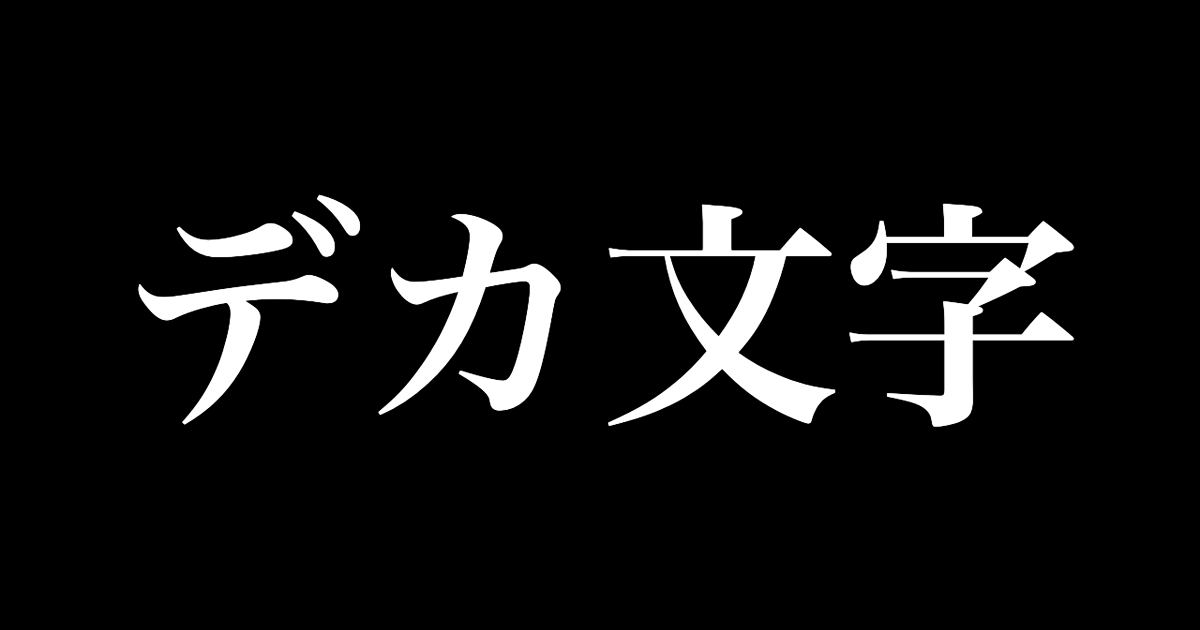
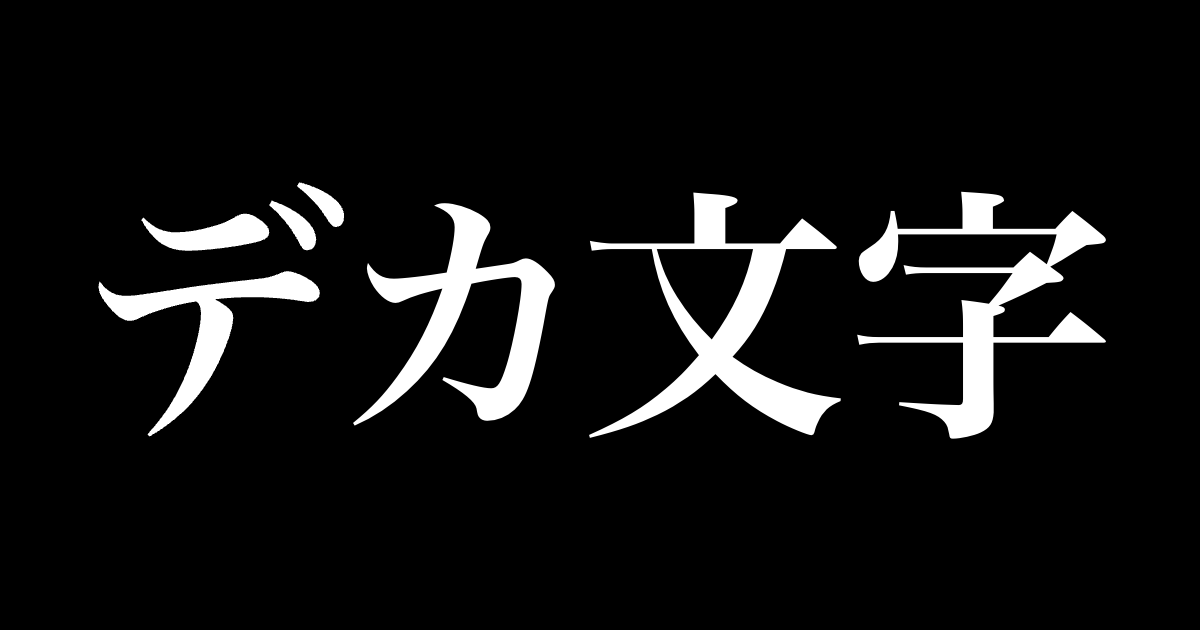
update

diff --git a/index.html b/index.html
@@ -1,30 +1,41 @@
 <!doctype html>
-<html lang="ja">
+<html>
   <head prefix="og: http://ogp.me/ns# fb: http://ogp.me/ns/fb# article: http://ogp.me/ns/article#">
     <meta charset="utf-8">
     <meta name="viewport" content="width=device-width, initial-scale=1">
     <meta name="creator" content="mimonelu">
     <meta name="publisher" content="mimonelu">
-    <meta name="description" content="デカ文字">
+    <meta name="description" content="Render a big characters." data-i18n="content:description">
     <meta name="robots" content="all">
-    <meta property="og:title" content="デカ文字">
-    <meta property="og:type" content="デカ文字">
+    <meta property="og:title" content="Dekamoji" data-i18n="content:title">
+    <meta property="og:type" content="Dekamoji" data-i18n="content:title">
     <meta property="og:url" content="https://mimonelu.github.io/dekamoji/?t=デカ文字&b=black&f=white&w=1200&h=630&ff=serif">
     <meta property="og:image" content="https://mimonelu.github.io/dekamoji/ogp.png">
-    <meta property="og:site_name" content="デカ文字">
-    <meta property="og:description" content="デカ文字">
-    <title>デカ文字</title>
+    <meta property="og:site_name" content="Dekamoji" data-i18n="content:title">
+    <meta property="og:description" content="Render a big characters." data-i18n="content:description">
+    <title data-i18n=":title">Dekamoji</title>
     <style>
 *, * > * {
+  box-sizing: border-box;
   margin: 0;
   padding: 0;
+}
+:root {
+  font-size: calc(16px + 1vmin);
 }
 body {
   background-color: #000000;
   color: #ffffff;
+  font-family: "Helvetica Neue", Arial, "Hiragino Kaku Gothic ProN", "Hiragino Sans", Meiryo, sans-serif;
+  font-feature-settings: "palt";
+  -moz-osx-font-smoothing: grayscale;
+  -webkit-font-smoothing: antialiased;
   object-fit: cover;
   overflow: hidden;
   height: 100vh;
+  -ms-text-size-adjust: 100%;
+  -webkit-text-size-adjust: 100%;
+  user-select: none;
 }
 #canvas {
   margin: auto;
@@ -37,36 +48,205 @@ body {
   width: 100vw;
   height: 100vh;
 }
+#menu-opener {
+  background-image: url("./menu.png");
+  background-color: rgba(0, 0, 0, 0.5);
+  background-position: center;
+  background-repeat: no-repeat;
+  background-size: 32px;
+  border-radius: 50%;
+  position: fixed;
+  top: 1rem;
+  right: 1rem;
+  z-index: 2;
+  width: 64px;
+  height: 64px;
+}
+#menu-opener:focus,
+#menu-opener:hover {
+  background-color: rgba(255, 0, 255, 0.5);
+  cursor: pointer;
+}
+#menu-checkbox {
+  display: none;
+}
+#menu-checkbox:checked ~ #menu-overlay {
+  display: flex;
+}
+#menu-overlay {
+  background-color: rgba(0, 0, 0, 0.75);
+  display: none;
+  align-items: center;
+  justify-content: center;
+  position: fixed;
+  top: 0;
+  left: 0;
+  z-index: 1;
+  width: 100vw;
+  height: 100vh;
+}
+#menu-content {
+  display: flex;
+  flex-direction: column;
+  grid-gap: 1rem;
+  padding: 1rem;
+  width: 100%;
+  max-width: 640px;
+}
+#menu-content form {
+  display: grid;
+  grid-gap: 1rem;
+  grid-template-columns: auto 1fr;
+}
+#menu-content label {
+  display: contents;
+}
+#menu-content label > div {
+  padding: 0.25rem 0;
+  text-align: right;
+  white-space: nowrap;
+}
+#menu-content input,
+#menu-content textarea {
+  background-color: rgba(0, 0, 0, 0.5);
+  border: 2px solid #ffffff;
+  border-radius: 2px;
+  color: #ffffff;
+  font-size: 1rem;
+  padding: 0.25rem 0.5rem;
+  width: 100%;
+}
+#menu-content textarea {
+  resize: none;
+}
+#menu-content input:focus,
+#menu-content input:hover,
+#menu-content textarea:focus,
+#menu-content textarea:hover {
+  background-color: rgba(255, 0, 255, 0.5);
+}
+#menu-content button {
+  background-color: rgba(0, 0, 0, 0.5);
+  border: 2px solid #ffffff;
+  border-radius: 2px;
+  color: #ffffff;
+  font-size: 1rem;
+  padding: 0.5rem 1rem;
+}
+#menu-content button:focus,
+#menu-content button:hover {
+  background-color: rgba(255, 0, 255, 0.5);
+  cursor: pointer;
+}
     </style>
     <link rel="icon" href="./favicon.png">
   </head>
   <body>
-    <a id="link" href="javascript: void 0;" download="デカ文字">
-      <canvas id="canvas"></canvas>
-    </a>
+    <canvas id="canvas"></canvas>
+    <label id="menu-opener" for="menu-checkbox"></label>
+    <input id="menu-checkbox" type="checkbox">
+    <aside id="menu-overlay">
+      <div id="menu-content">
+        <form>
+          <label>
+            <div id="menu-label-text" data-i18n=":text">Text</div>
+            <textarea id="menu-value-text" onfocus="this.select()" oninput="onReupdateImage()"></textarea>
+          </label>
+          <label>
+            <div id="menu-label-bgcolor" data-i18n=":bgColor">Bg color</div>
+            <input id="menu-value-bgcolor" type="text" value="" onfocus="this.select()" oninput="onReupdateImage()">
+          </label>
+          <label>
+            <div id="menu-label-fgcolor" data-i18n=":fgColor">Fg color</div>
+            <input id="menu-value-fgcolor" type="text" value="" onfocus="this.select()" oninput="onReupdateImage()">
+          </label>
+        </form>
+        <button id="menu-download-button" onclick="onDownload()" data-i18n=":download">Download</button>
+      </div>
+    </aside>
     <script>
-const appName = 'デカ文字'
-
-const main = () => {
-  const params = new URLSearchParams(document.location.search.substring(1))
-  const text = params.get('t') || appName
-  const texts = text.split('\\n')
-  const bgColor = params.get('b') || '#000000'
-  const fgColor = params.get('f') || '#ffffff'
-  const width = Number(params.get('w') || '1200')
-  const height = Number(params.get('h') || '630')
-  const fontFamily = params.get('ff') || 'serif'
-  updateBgColor(bgColor)
-  const image = renderImage(texts, bgColor, fgColor, width, height, fontFamily)
-  updateLink(text, image)
-  updateOgp(text, image)
+const words = {
+  ja: {
+    title: 'デカ文字',
+    description: 'デカい文字を描画します。',
+    text: 'テキスト',
+    bgColor: '背景色',
+    fgColor: '前景色',
+    download: 'ダウンロード',
+  },
+}[navigator.language] || {
+  title: 'Dekamoji',
+  description: 'Render a big characters.',
+  text: 'Text',
+  bgColor: 'Bg color',
+  fgColor: 'Fg color',
+  download: 'Download',
 }
 
-const updateBgColor = (bgColor) => {
+const data = {}
+
+const defaultData = {
+  text: words.title,
+  bgColor: 'black',
+  fgColor: 'white',
+  width: 1200,
+  height: 630,
+  fontFamily: 'serif',
+}
+
+const main = () => {
+  // Get search params
+  const params = new URLSearchParams(document.location.search.substring(1))
+  data.text = params.get('t') || defaultData.text
+  data.texts = data.text.split('\n')
+  data.bgColor = params.get('b') || defaultData.bgColor
+  data.fgColor = params.get('f') || defaultData.fgColor
+  data.width = Number(params.get('w')) || defaultData.width
+  data.height = Number(params.get('h')) || defaultData.height
+  data.fontFamily = params.get('ff') || defaultData.fontFamily
+
+  setupTranslation()
+  setupForm()
+  update()
+}
+
+const setupTranslation = () => {
+  const i18nElements = document.querySelectorAll('[data-i18n]')
+  for (const i18nElement of i18nElements) {
+    const blocks = i18nElement.getAttribute('data-i18n').split(':')
+    const attribute = blocks[0]
+    const wordKey = blocks[1]
+    if (attribute) {
+      i18nElement.setAttribute(attribute, words[wordKey])
+    } else {
+      i18nElement.innerText = words[wordKey]
+    }
+  }
+}
+
+const setupForm = () => {
+  const textElement = document.querySelector('#menu-value-text')
+  textElement.placeholder = defaultData.text
+  textElement.value = data.text === defaultData.text ? '' : data.text
+  const bgcolorElement = document.querySelector('#menu-value-bgcolor')
+  bgcolorElement.placeholder = defaultData.bgColor
+  bgcolorElement.value = data.bgColor === defaultData.bgColor ? '' : data.bgColor
+  const fgcolorElement = document.querySelector('#menu-value-fgcolor')
+  fgcolorElement.placeholder = defaultData.fgColor
+  fgcolorElement.value = data.fgColor === defaultData.fgColor ? '' : data.fgColor
+}
+
+const update = () => {
+  updateBgColor(data)
+  data.image = updateImage(data)
+  updateOgp(data)
+}
+
+const updateBgColor = ({ bgColor }) => {
   document.body.style.backgroundColor = bgColor
 }
 
-const renderImage = (texts, bgColor, fgColor, width, height, fontFamily) => {
+const updateImage = ({ texts, bgColor, fgColor, width, height, fontFamily }) => {
   const canvas = document.querySelector('#canvas')
   const context = canvas.getContext('2d')
   canvas.width = width
@@ -76,9 +256,20 @@ const renderImage = (texts, bgColor, fgColor, width, height, fontFamily) => {
   context.fillStyle = bgColor
   context.fillRect(0, 0, canvas.width, canvas.height)
 
-  // Render Texts
+  // Render text
   const x = canvas.width / 2
-  const fontSize = canvas.width / (Math.max(...texts.map(text => text.length)) + 1)
+  // SEE: https://qiita.com/suin/items/3da4fb016728c024eaca
+  let fontSize = Math.min(
+    canvas.width / (Math.max(...texts.map(text => [ ...text ].length)) + 0.5),
+    canvas.height / (texts.length + (texts.length / 2 - 0.5))
+  )
+
+  // Only one character
+  const shorter = Math.min(canvas.width, canvas.height)
+  if (fontSize >= shorter) {
+    fontSize = shorter * 0.75
+  }
+
   const lineHeight = fontSize + (fontSize * 0.25)
   for (let i = 0; i < texts.length; i ++) {
     const text = texts[i]
@@ -89,28 +280,46 @@ const renderImage = (texts, bgColor, fgColor, width, height, fontFamily) => {
     context.textAlign = 'center'
     context.textBaseline = 'middle'
     context.fillStyle = fgColor
-    context.fillText(text, x, y, canvas.width)
+    context.fillText(text, x, y)
   }
 
   return canvas.toDataURL('image/png', 1.0)
 }
 
-const updateLink = (text, image) => {
-  const link = document.querySelector('#link')
-  link.setAttribute('download', text)
-  link.setAttribute('href', image)
+const updateOgp = ({ text, image }) => {
+  // URL
+  const ogUrl = document.querySelector('[property="og:url"]')
+  ogUrl.setAttribute('content', location.href)
+
+  // Image
+  const ogImage = document.querySelector('[property="og:image"]')
+  ogImage.setAttribute('content', image)
 }
 
-const updateOgp = (text, image) => {
-  if (text !== appName) {
-    document.title = `${appName} - ${text}`
-    const ogTitle = document.querySelector('[property="og:title"]')
-    ogTitle.setAttribute('content', `${appName} - ${text}`)
-    const ogUrl = document.querySelector('[property="og:url"]')
-    ogUrl.setAttribute('content', location.href)
-    const ogImage = document.querySelector('[property="og:image"]')
-    ogImage.setAttribute('content', image)
-  }
+const onReupdateImage = () => {
+  data.text = document.querySelector('#menu-value-text').value || defaultData.text
+  data.texts = data.text.split('\n')
+  data.bgColor = document.querySelector('#menu-value-bgcolor').value || defaultData.bgColor
+  data.fgColor = document.querySelector('#menu-value-fgcolor').value || defaultData.fgColor
+  update()
+
+  // Change search params
+  const url = new URL(location.href)
+  const params = url.searchParams
+  params.set('t', data.text)
+  params.set('b', data.bgColor)
+  params.set('f', data.fgColor)
+  params.set('w', data.width)
+  params.set('h', data.height)
+  params.set('ff', data.fontFamily)
+  history.replaceState({}, '', url.href)
+}
+
+const onDownload = () => {
+  const link = document.createElement('a')
+  link.setAttribute('download', data.text)
+  link.setAttribute('href', data.image)
+  link.click()
 }
 
 main()
